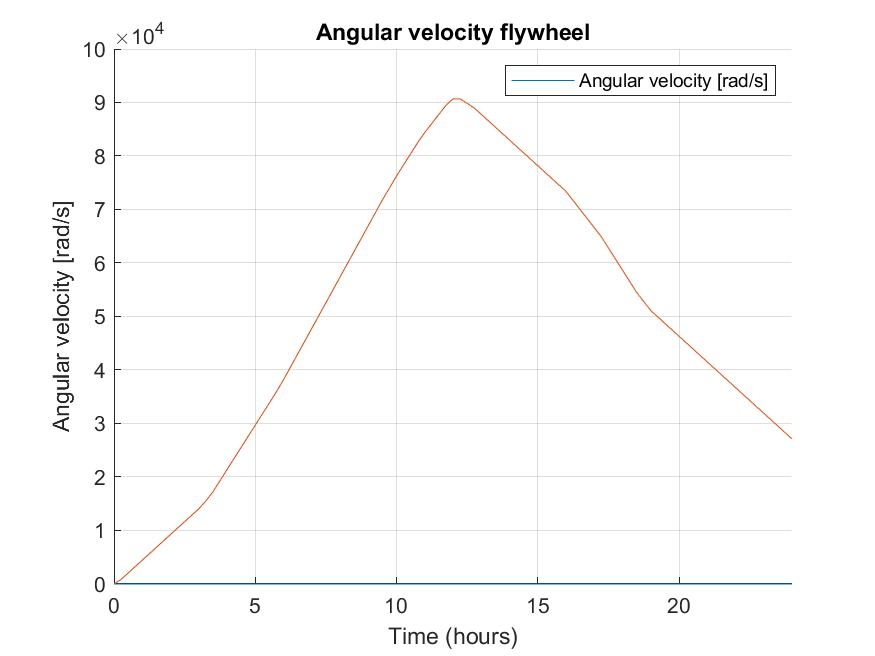
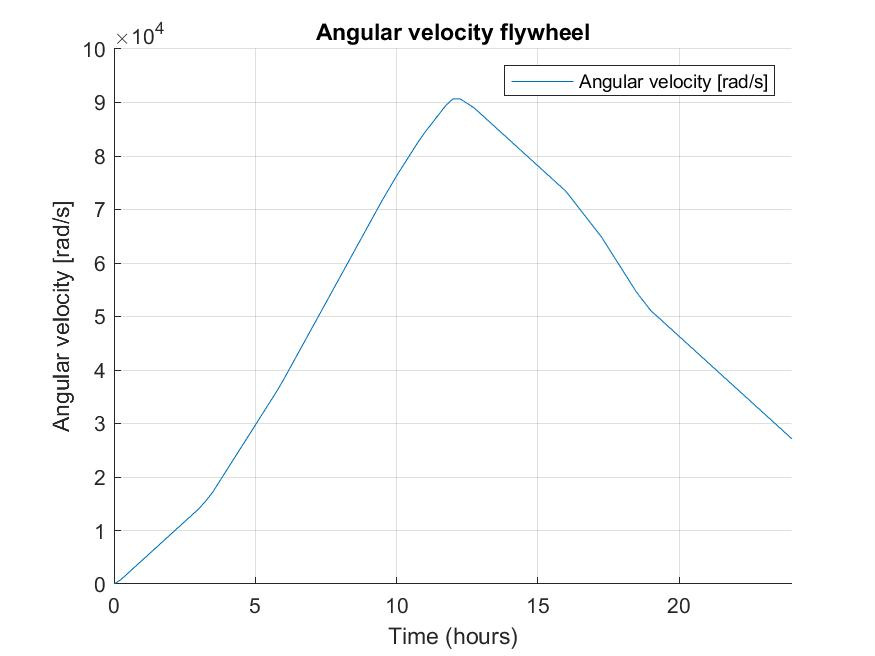
Moved Constants to seperate .m file Moved graph plotting to seperate .m file Added check that flywheel can not have negative angular velocity

diff --git a/main.m b/main.m
@@ -4,22 +4,7 @@
 clc;
 clear;
 close all;
-
-%%
-%%%%%%%%%%%%%
-% Constants %
-%%%%%%%%%%%%%
-%%%Starting values
-time_start = 0;                                                             %Starting time
-time_step = 0.25;                                                           %Time step, every 15 minutes
-time_end = 24;                                                              %End time, after 24 hours
-flywheel_in = 0;                                                            %Starting inflow energy
-flywheel_energy = 0;                                                        %Starting energy flywheel
-flywheel_angular = 0 ;                                                      %Starting angular velocity flywheel
-
-r_flywheel = 0.85;                                                          %Radius of the flywheel
-d_flywheel = 0.40;                                                          %Thickness of the flywheel
-rho_flywheel = 7850;                                                        %Density of the material of which the flywheel is made (solid)
+loadConstants;
 
 %%
 %%%%%%%%%%%%%%%%
@@ -49,6 +34,10 @@ for t=time_start:time_step:time_end
     flywheel_in = table_energy(2,Column);
     flywheel_in_joule = flywheel_in*3.6e+6;
     flywheel_energy = flywheel_energy + flywheel_in;
+    
+    %flywheel_losses = pi * flywheel_angular^2 * r_flywheel^4 * d_flywheel * rho_air;
+    flywheel_losses = 0;
+    flywheel_in_joule = flywheel_in_joule - flywheel_losses;
     if flywheel_in_joule >= 0
         dt_flywheel_angular = sqrt((2 * flywheel_in_joule)/(I_flywheel));
     else
@@ -56,51 +45,21 @@ for t=time_start:time_step:time_end
         dt_flywheel_angular = -sqrt((2 * flywheel_in_joule)/(I_flywheel));
     end
     
-    %dt_flywheel_angular = sqrt((2 * flywheel_in_joule)/(I_flywheel));
     flywheel_angular = flywheel_angular + dt_flywheel_angular;
-
+    
+    if flywheel_angular < 0
+        flywheel_angular = 0;
+    end
+    
     %Log data to table 
-    table_flywheel(2,Column)=flywheel_angular;                                  %Assign value for flywheel revolutions to table
+    table_flywheel(2,Column)=flywheel_angular;                              %Assign value for flywheel revolutions to table
     table_flywheel(3,Column)=flywheel_energy;                               %Assign value for flywheel energy to table
     table_flywheel(4,Column)=flywheel_in;                                   %Assign value for incomming flywheel energy to table
+    table_flywheel(5,Column)=flywheel_losses;                               %Assign value for energy losses to table    
 end
 %%
-%%%%%%%%%%%%
-% Graphing %
-%%%%%%%%%%%%
-t_var = table_flywheel(1,:);
-Omega_flywheel = table_flywheel(2,:);
-E_energy = table_flywheel(3,:);
-E_inflow = table_flywheel(4,:);
-%%Figure 1 for surplus
-figure(1);hold on
-figure(1);grid on
-figure(1); plot(t_var,E_inflow);
+%Settings plots
+generate_fig1 = false;                                                       %Inflow energy graph
+generate_fig2 = true;                                                       %Angular velocity flywheel graph
 
-%figure(1); annotation('line',[0 1], [0.5 0.5]);
-%figure(1); annotation('textarrow', [0.45 0.33], [0.25 0.25], 'String', 'Thermocline effect');
-
-figure(1); ylabel('Inflow energy (kWh)')
-figure(1); legend({'Inflow energy flywheel'}, 'Location','northeast')
-
-figure(1); xlim([0 time_end]);
-figure(1); xlabel('Time (hours)')
-figure(1); title('Inflow energy flywheel')
-figure(1); saveas(gcf,'figures\inflowEnergy.jpg')
-
-%%Figure 1 for flywheel rotation
-figure(1);hold on
-figure(1);grid on
-figure(1); plot(t_var,Omega_flywheel);
-
-%figure(1); annotation('line',[0 1], [0.5 0.5]);
-%figure(1); annotation('textarrow', [0.45 0.33], [0.25 0.25], 'String', 'Thermocline effect');
-
-figure(1); ylabel('Angular velocity [rad/s]')
-figure(1); legend({'Angular velocity [rad/s]'}, 'Location','northeast')
-
-figure(1); xlim([0 time_end]);
-figure(1); xlabel('Time (hours)')
-figure(1); title('Angular velocity flywheel')
-figure(1); saveas(gcf,'figures\angularVelocity.jpg')
-
+plotGraphs;

diff --git a/loadConstants.m b/loadConstants.m
@@ -1,0 +1,20 @@
+%%%%%%%%%%%%%%%%%%%%%%%%%%%%%%%%%%%%%%%%%%%%%%%%%%
+% Constants for Energy Storage System Group 21   %
+%%%%%%%%%%%%%%%%%%%%%%%%%%%%%%%%%%%%%%%%%%%%%%%%%%
+%%
+%%%%%%%%%%%%%
+% Constants %
+%%%%%%%%%%%%%
+%%%Starting values
+time_start = 0;                                                             %Starting time
+time_step = 0.25;                                                           %Time step, every 15 minutes
+time_end = 24;                                                              %End time, after 24 hours
+flywheel_in = 0;                                                            %Starting inflow energy
+flywheel_energy = 0;                                                        %Starting energy flywheel
+flywheel_angular = 0 ;                                                      %Starting angular velocity flywheel
+
+r_flywheel = 0.85;                                                          %Radius of the flywheel
+d_flywheel = 0.40;                                                          %Thickness of the flywheel
+rho_flywheel = 7850;                                                        %Density of the material of which the flywheel is made (solid)
+rho_air = 1.2041;                                                           %Density of air
+c_lin = 1;                                                                  %linear air drag coefficient

diff --git a/plotGraphs.m b/plotGraphs.m
@@ -1,0 +1,41 @@
+%%%%%%%%%%%%%%%%%%%%%%%%%%%%%%%%%%%%%%%%%%%%%%%%%%
+% Plotting for Energy Storage System Group 21    %
+%%%%%%%%%%%%%%%%%%%%%%%%%%%%%%%%%%%%%%%%%%%%%%%%%%
+%%
+%%%%%%%%%%%%
+% Graphing %
+%%%%%%%%%%%%
+t_var = table_flywheel(1,:);
+Omega_flywheel = table_flywheel(2,:);
+E_energy = table_flywheel(3,:);
+E_inflow = table_flywheel(4,:);
+
+%%Figure 1 for surplus
+if generate_fig1 == true
+    figure(1);hold on
+    figure(1);grid on
+    figure(1); plot(t_var,E_inflow);
+
+    figure(1); ylabel('Inflow energy (kWh)')
+    figure(1); legend({'Inflow energy flywheel'}, 'Location','northeast')
+
+    figure(1); xlim([0 time_end]);
+    figure(1); xlabel('Time (hours)')
+    figure(1); title('Inflow energy flywheel')
+    figure(1); saveas(gcf,'figures\inflowEnergy.jpg')
+end
+
+%%Figure 2 for flywheel rotation
+if generate_fig2 == true
+    figure(2);hold on
+    figure(2);grid on
+    figure(2); plot(t_var,Omega_flywheel);
+
+    figure(2); ylabel('Angular velocity [rad/s]')
+    figure(2); legend({'Angular velocity [rad/s]'}, 'Location','northeast')
+
+    figure(2); xlim([0 time_end]);
+    figure(2); xlabel('Time (hours)')
+    figure(2); title('Angular velocity flywheel')
+    figure(2); saveas(gcf,'figures\angularVelocity.jpg')
+end
